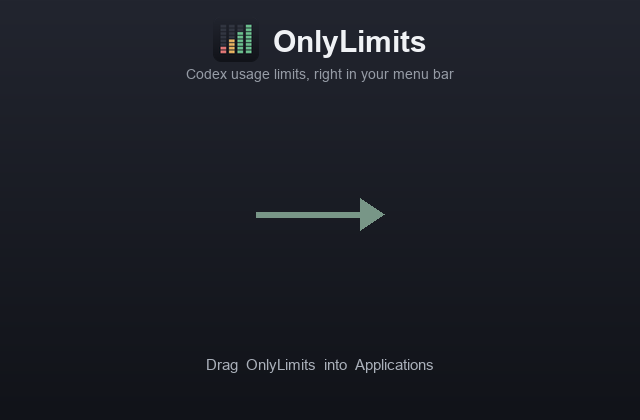
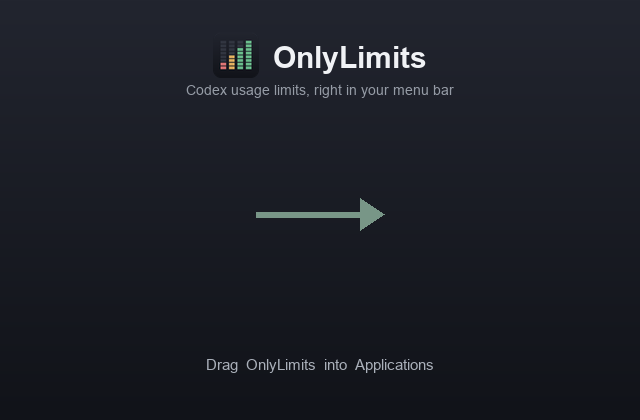
dmg: nudge title + subtitle down for top breathing room

Changed region(s): [[0.2812, 0.0619, 0.7188, 0.2476]]

diff --git a/dmg/make_bg.py b/dmg/make_bg.py
@@ -27,10 +27,10 @@ icon=Image.open("icon/icon_1024.png").convert("RGBA").resize((46,46), Image.LANC
 gap_i=14
 total=icon.width+gap_i+tw
 x0=int(W/2-total/2)
-title_y=24
+title_y=40
 im.paste(icon, (x0, title_y-8), icon)                 # real icon, alpha-composited
 d.text((x0+icon.width+gap_i, title_y), title, font=tf, fill=(240,242,245))
-ctext(W/2, 66, "Codex usage limits, right in your menu bar", sf, (150,156,166))
+ctext(W/2, title_y+42, "Codex usage limits, right in your menu bar", sf, (150,156,166))
 
 # --- arrow between the app (left) and Applications (right) ---
 # Icons are centered at x=160 and x=480 at 128px, so their inner edges are ~224
